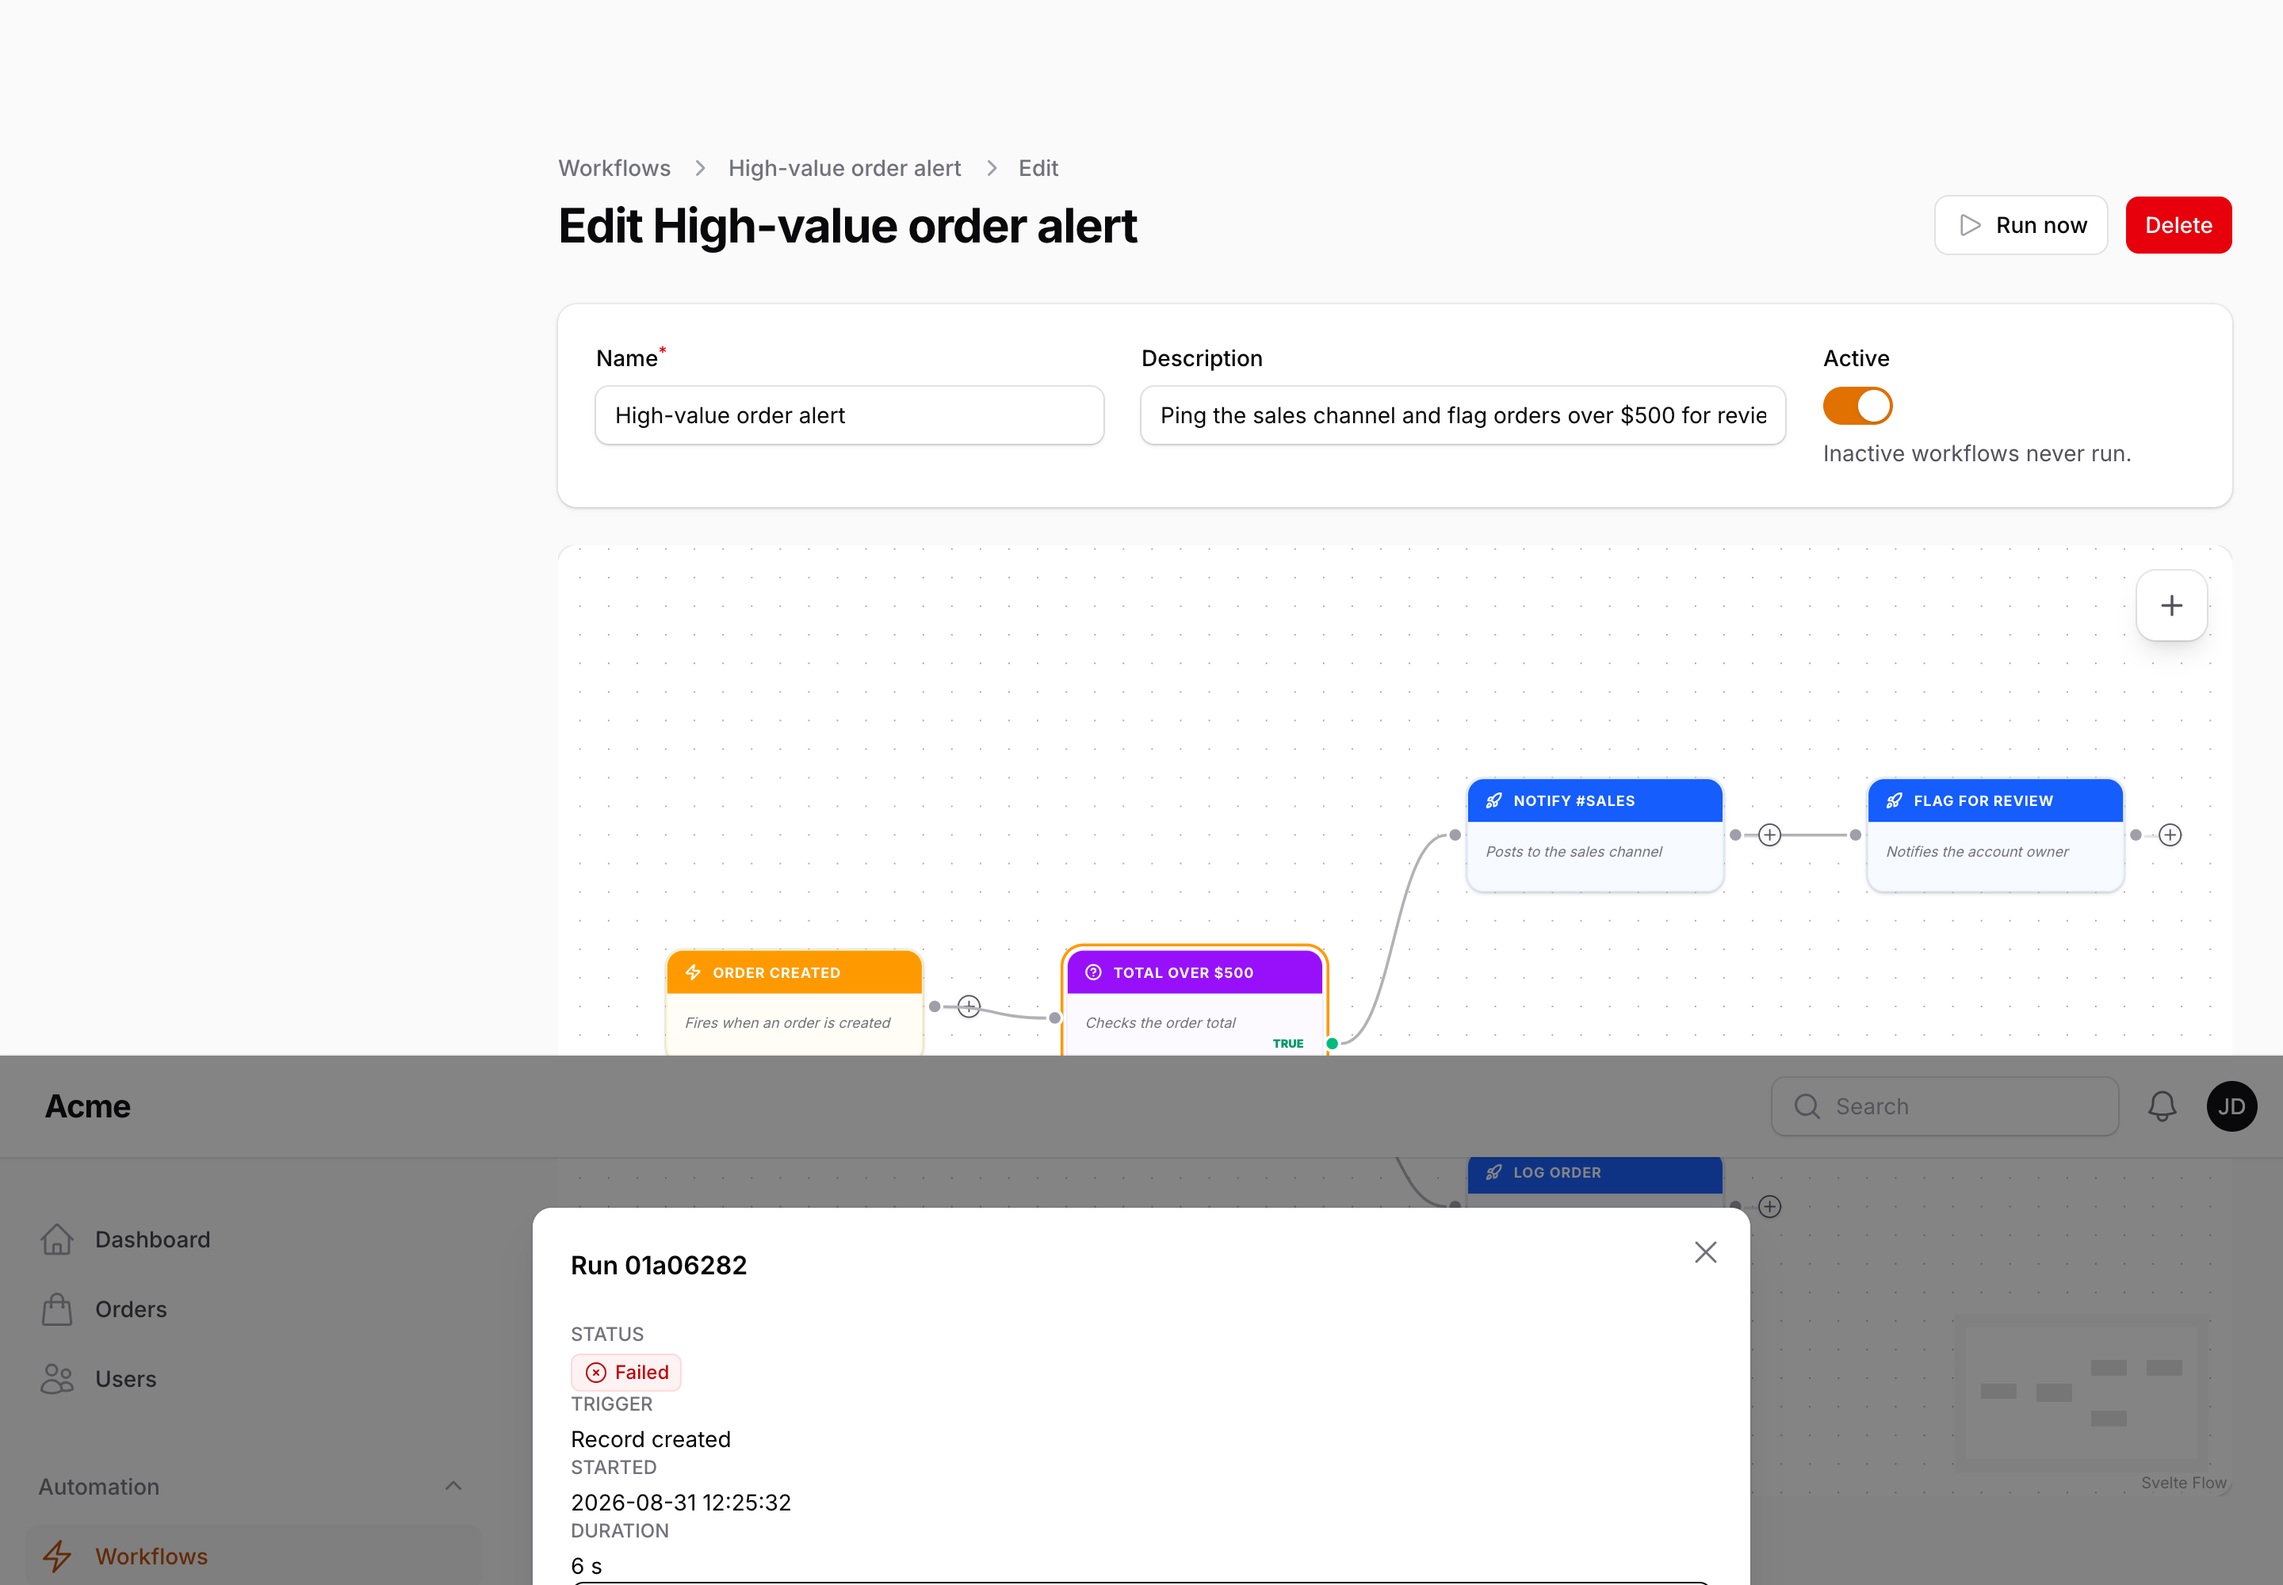
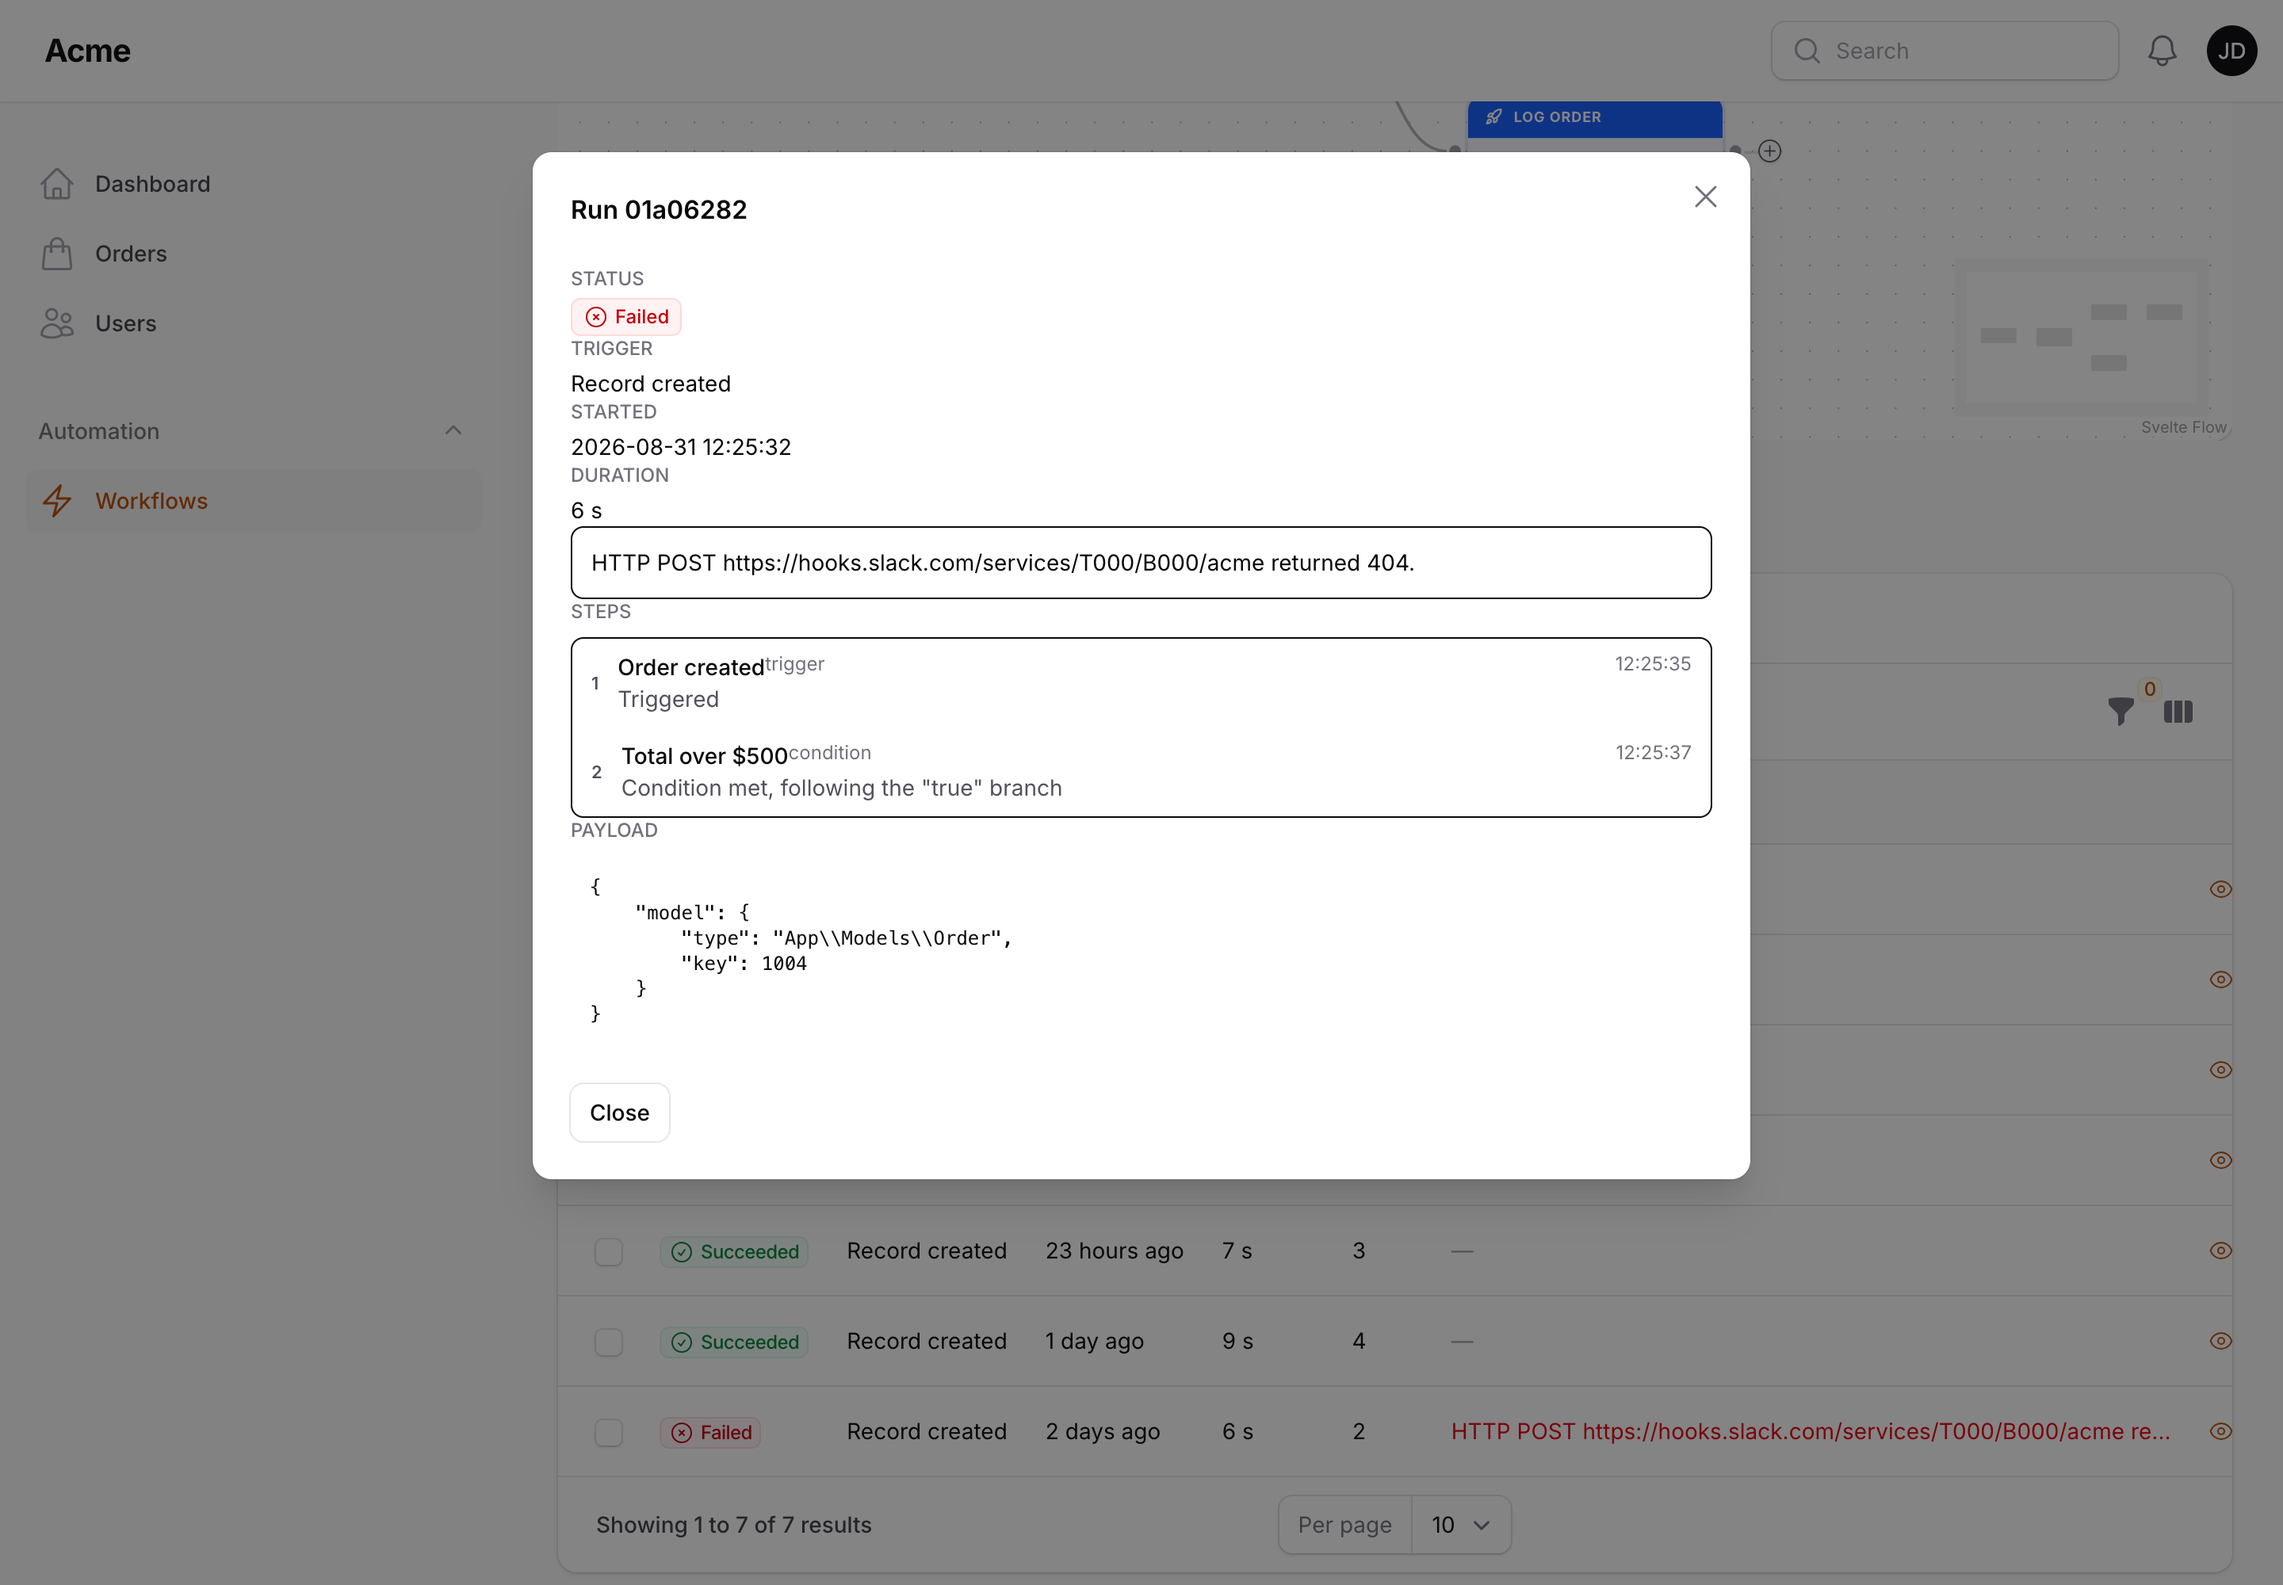
docs: say "workflow automations" in the README, docs and composer keywords; re-capture the runs screenshots (#1)
The runs and run-detail shots were clipped from the document top after a window scroll, which stitched the fixed topbar and sidebar into the middle of the image.

diff --git a/docs/README.md b/docs/README.md
@@ -2,7 +2,7 @@
 
 ![Filament Flow](https://raw.githubusercontent.com/packstub/filament-flow/main/art/banner.jpg)
 
-Visual workflow automation for Filament panels: triggers, conditions and actions drawn on a canvas, executed by a runner, optionally through your queue. Free and open source (MIT).
+Visual workflow automations for Filament panels: triggers, conditions and actions drawn on a canvas, executed by a runner, optionally through your queue. Free and open source (MIT).
 
 - Repository: [github.com/packstub/filament-flow](https://github.com/packstub/filament-flow)
 - Packagist: [packstub/filament-flow](https://packagist.org/packages/packstub/filament-flow)

diff --git a/README.md b/README.md
@@ -11,7 +11,7 @@
 
 </div>
 
-Automate your Filament panel on a canvas: draw triggers, conditions and actions, and let the runner — or your queue — do the rest.
+Visual workflow automations for your Filament panel: draw triggers, conditions and actions on a canvas, and let the runner — or your queue — do the rest.
 
 ## Features
 
